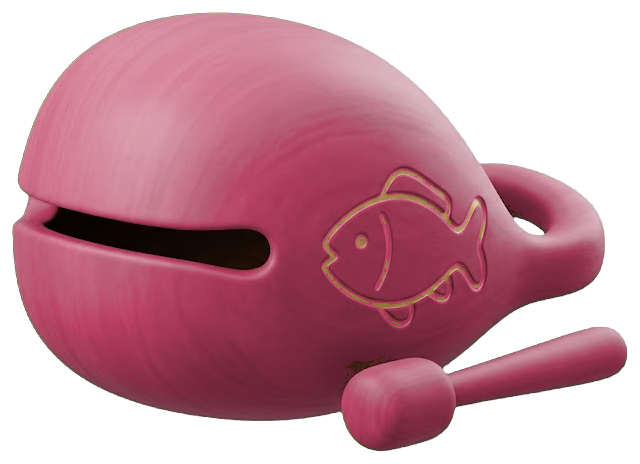
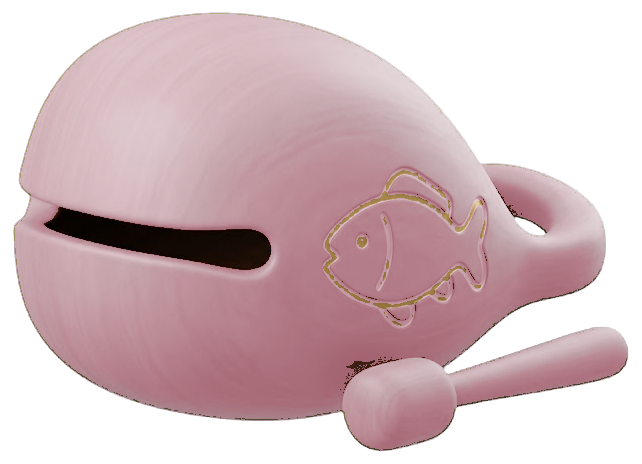
로그인을 안전한 쪽으로 되돌리고, 목탁을 연분홍으로
■ 로그인 — 지금은 **원래 손잡이**로 돌려 둔다.
  우리 도메인으로 끌어왔더니 구글이 「400 redirect_uri_mismatch」로 막았다.
  그 주소가 구글 쪽에 등록되어 있지 않아서다. 등록 전에 켜 두면 아무도
  로그인을 못 하니, 켜고 끄는 스위치 한 줄만 남기고 껐다
  (src/lib/firebase.ts 의 `손잡이를_우리집으로`).
  길(/__/auth/* rewrites)은 그대로 뚫려 있다 — 콘솔에 아래 넷을 넣고
  스위치를 true 로 바꾸면 그때 홈 화면 앱에서도 로그인이 끝난다.
    승인된 자바스크립트 원본  https://www.hwa-du.com · https://hwa-du.com
    승인된 리디렉션 URI      https://www.hwa-du.com/__/auth/handler
                            https://hwa-du.com/__/auth/handler

■ 분홍 목탁 — 아직 진했다. 두 스크립트가 서로 다른 값을 들고 있어서,
  나중에 돌린 쪽이 옅게 물들인 것을 도로 덮어썼다. 값을 하나로 맞추고
  채도를 더 낮춰 연분홍으로(채도 0.26 천장, 밝기 0.42 들어 올림).

diff --git a/src/lib/firebase.ts b/src/lib/firebase.ts
@@ -9,16 +9,35 @@ import { getAuth } from "firebase/auth";
 import { getFirestore } from "firebase/firestore";
 import { getDatabase } from "firebase/database";
 
+/** 구글 콘솔에 우리 주소를 등록했으면 true — 위 주석 참고 */
+const 손잡이를_우리집으로 = false;
+function 우리손잡이(): boolean {
+  return (
+    손잡이를_우리집으로 &&
+    typeof window !== "undefined" &&
+    window.location.hostname.endsWith("hwa-du.com")
+  );
+}
+
 const firebaseConfig = {
   apiKey: "AIzaSyAdNMHbhnjJqyB5i6rhF8SxpouTuqqN4OE",
-  // 로그인 손잡이를 우리 집 주소로 — next.config.ts 의 rewrites 가
-  // /__/auth/* 를 파이어베이스로 그대로 넘긴다. 남의 도메인 저장소를
-  // 읽을 일이 없어지니, 홈 화면 앱(리다이렉트)에서도 로그인이 끝난다.
-  // 로컬(localhost)에서는 넘길 곳이 없으니 원래 주소를 쓴다.
-  authDomain:
-    typeof window !== "undefined" && window.location.hostname.endsWith("hwa-du.com")
-      ? window.location.hostname
-      : "hwadu-9dc7b.firebaseapp.com",
+  // ── 로그인 손잡이 ─────────────────────────────────────────
+  // 우리 도메인(/__/auth/*)으로 끌어오면 홈 화면 앱에서도 로그인이
+  // 끝난다 — 남의 도메인 저장소를 읽을 일이 없어지기 때문이다.
+  // next.config.ts 의 rewrites 가 그 길을 이미 뚫어 두었다.
+  //
+  // **다만 구글 쪽에 그 주소를 등록해 두어야 한다.** 안 하면 구글이
+  // 「400 redirect_uri_mismatch」로 막는다(형이 본 그 화면).
+  //   구글 클라우드 콘솔 → hwadu-9dc7b → 사용자 인증 정보
+  //   → OAuth 2.0 클라이언트 ID → Web client (auto created…)
+  //   · 승인된 자바스크립트 원본:  https://www.hwa-du.com · https://hwa-du.com
+  //   · 승인된 리디렉션 URI:       https://www.hwa-du.com/__/auth/handler
+  //                               https://hwa-du.com/__/auth/handler
+  // 넣고 저장한 뒤 아래 한 줄을 true 로 바꾸면 끝이다.
+  // 지금은 false — 등록 전에 켜 두면 **아무도 로그인을 못 한다.**
+  authDomain: 우리손잡이()
+    ? window.location.hostname
+    : "hwadu-9dc7b.firebaseapp.com",
   databaseURL:
     "https://hwadu-9dc7b-default-rtdb.asia-southeast1.firebasedatabase.app",
   projectId: "hwadu-9dc7b",
